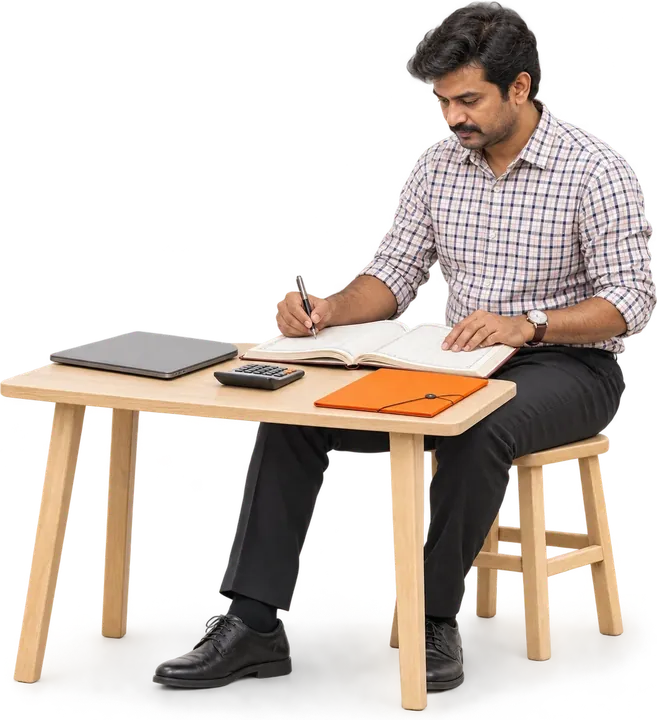
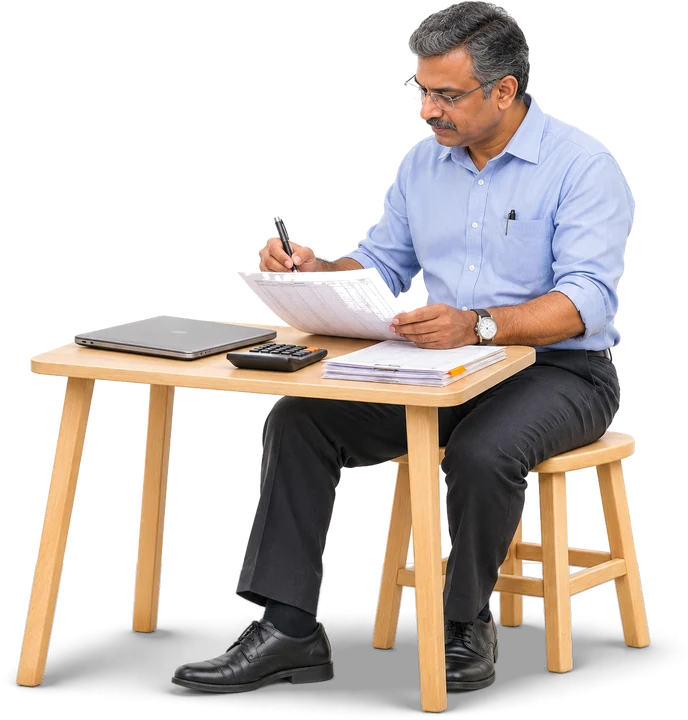
clor.in home: real CLOR screens on the owner's photos in People, Payroll and Attendance; new Books card person
People: employee profile on the HR manager's monitor. Payroll: October
payslip on an employee's phone. Attendance: punch screen on the biometric
reader. Books card: a finance manager, so the hero's accountant is not
repeated.

diff --git a/website/src/pages/Home.jsx b/website/src/pages/Home.jsx
@@ -96,6 +96,14 @@ function Stage({ children, flip }) {
   );
 }
 
+/** Each section's photo: a real CLOR screen (sample data) on the device in the picture. */
+const SHOTS = {
+  books: { src: ['/people/books-invoice-560.webp', '/people/books-invoice-980.webp'], w: [560, 980], h: 620, alt: 'A tax invoice in CLOR Books on a laptop, with sample data' },
+  people: { src: ['/people/people-hr-700.webp', '/people/people-hr-1400.webp'], w: [700, 1400], h: 788, alt: 'An HR manager looking at an employee’s profile in CLOR People' },
+  payroll: { src: ['/people/payroll-payslip-560.webp', '/people/payroll-payslip-1120.webp'], w: [560, 1120], h: 1400, alt: 'An employee reading her October payslip from CLOR Payroll on her phone' },
+  attendance: { src: ['/people/attendance-reader-700.webp', '/people/attendance-reader-1400.webp'], w: [700, 1400], h: 1050, alt: 'An employee punching in on a biometric reader showing CLOR Attendance' },
+};
+
 /** One product's section: what it does in a few plain lines, beside a photo and its screen. */
 function AppSection({ slug, title, lines, flip }) {
   const p = productBySlug(slug);
@@ -120,16 +128,16 @@ function AppSection({ slug, title, lines, flip }) {
             More about CLOR&nbsp;{p.name}
           </Link>
         </div>
-        {slug === 'books' ? (
-          <figure className="app-sec-photo">
+        {SHOTS[slug] ? (
+          <figure className={`app-sec-photo app-sec-photo--${slug}`}>
             <img
-              src="/people/books-invoice-980.webp"
-              srcSet="/people/books-invoice-560.webp 560w, /people/books-invoice-980.webp 980w"
+              src={SHOTS[slug].src[1]}
+              srcSet={`${SHOTS[slug].src[0]} ${SHOTS[slug].w[0]}w, ${SHOTS[slug].src[1]} ${SHOTS[slug].w[1]}w`}
               sizes="(max-width: 900px) 100vw, 560px"
-              width="980"
-              height="620"
+              width={SHOTS[slug].w[1]}
+              height={SHOTS[slug].h}
               loading="lazy"
-              alt="A tax invoice in CLOR Books on a laptop, with sample data"
+              alt={SHOTS[slug].alt}
             />
           </figure>
         ) : (

diff --git a/website/src/styles/site.css b/website/src/styles/site.css
@@ -2100,3 +2100,13 @@ main:focus {
   mask-image: linear-gradient(90deg, transparent 0%, #000 13%);
   object-position: left center;
 }
+/* Photos with a CLOR screen on the device: a content surface, 12px corners. The Books laptop stays a cut-out. */
+.app-sec-photo:not(.app-sec-photo--books) img {
+  border-radius: var(--r-panel);
+  -webkit-mask-image: none;
+  mask-image: none;
+}
+.app-sec-photo--payroll {
+  max-width: 440px;
+  justify-self: center;
+}
